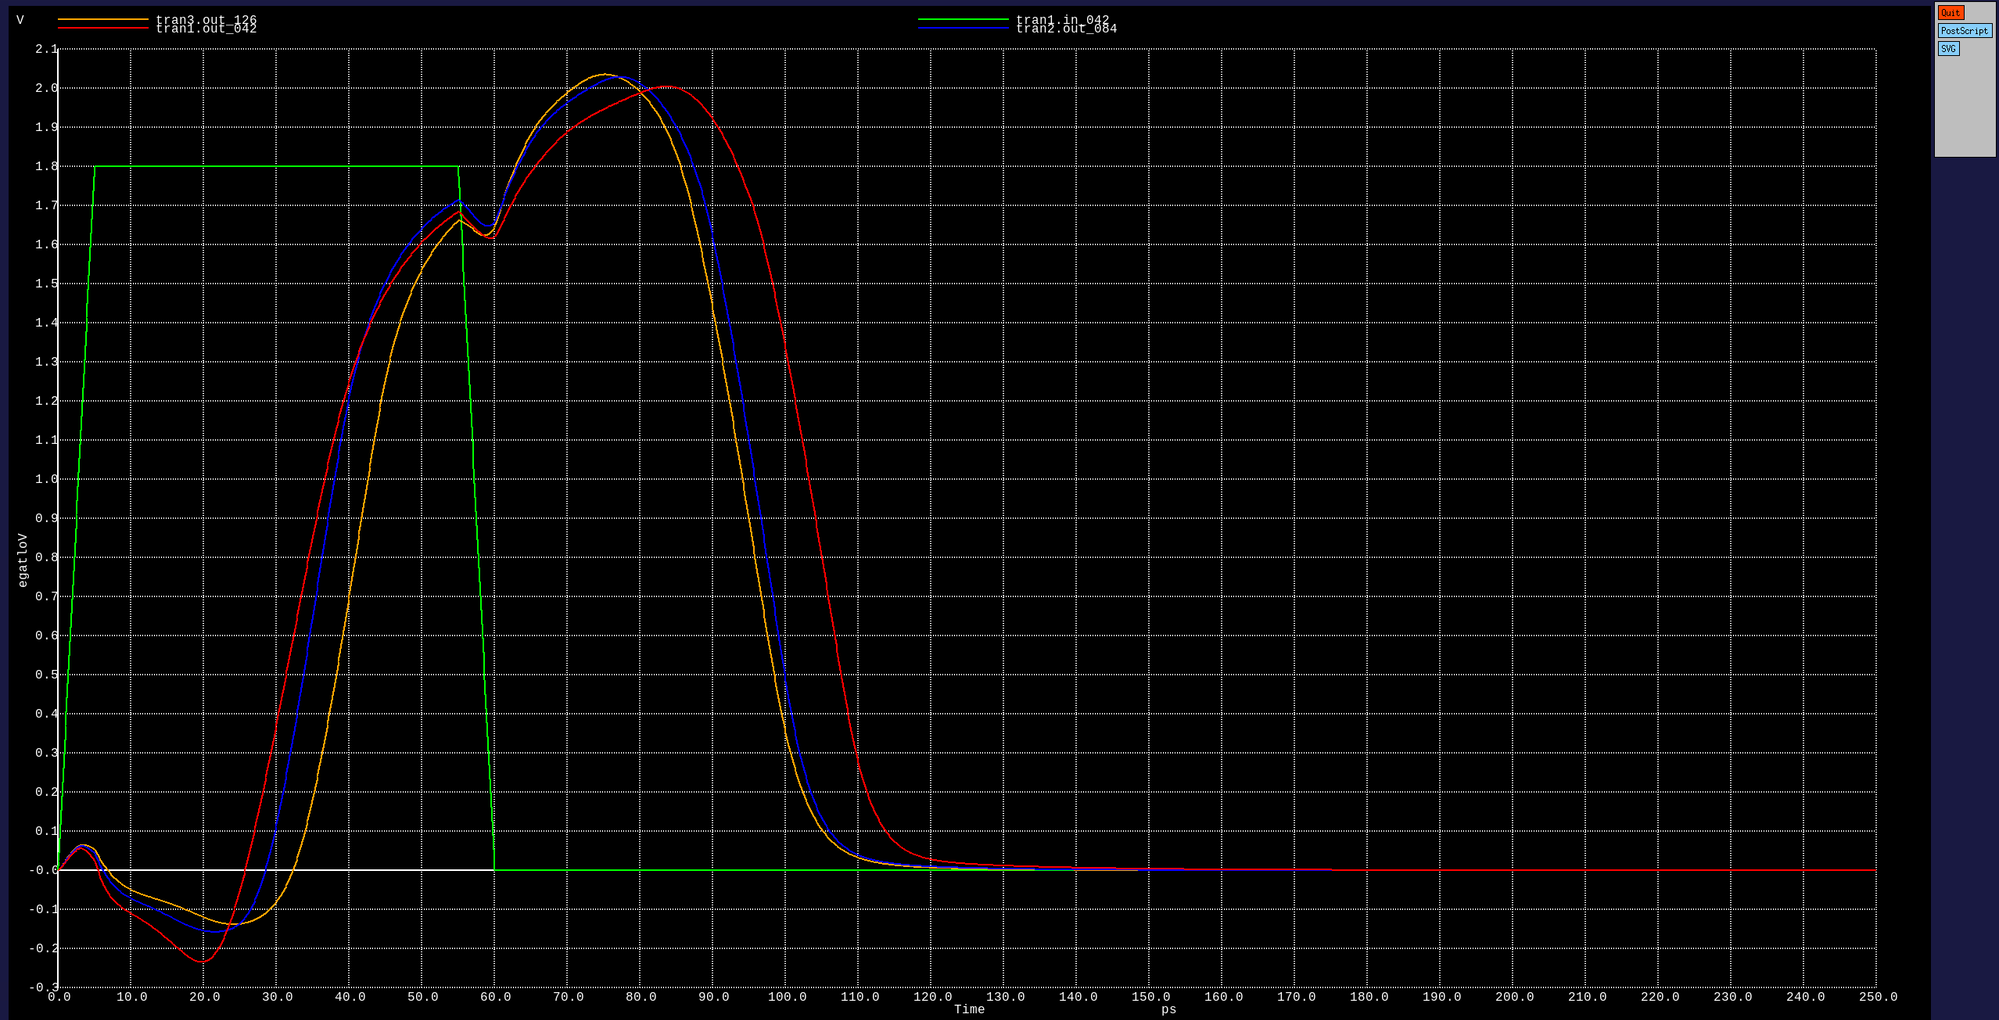
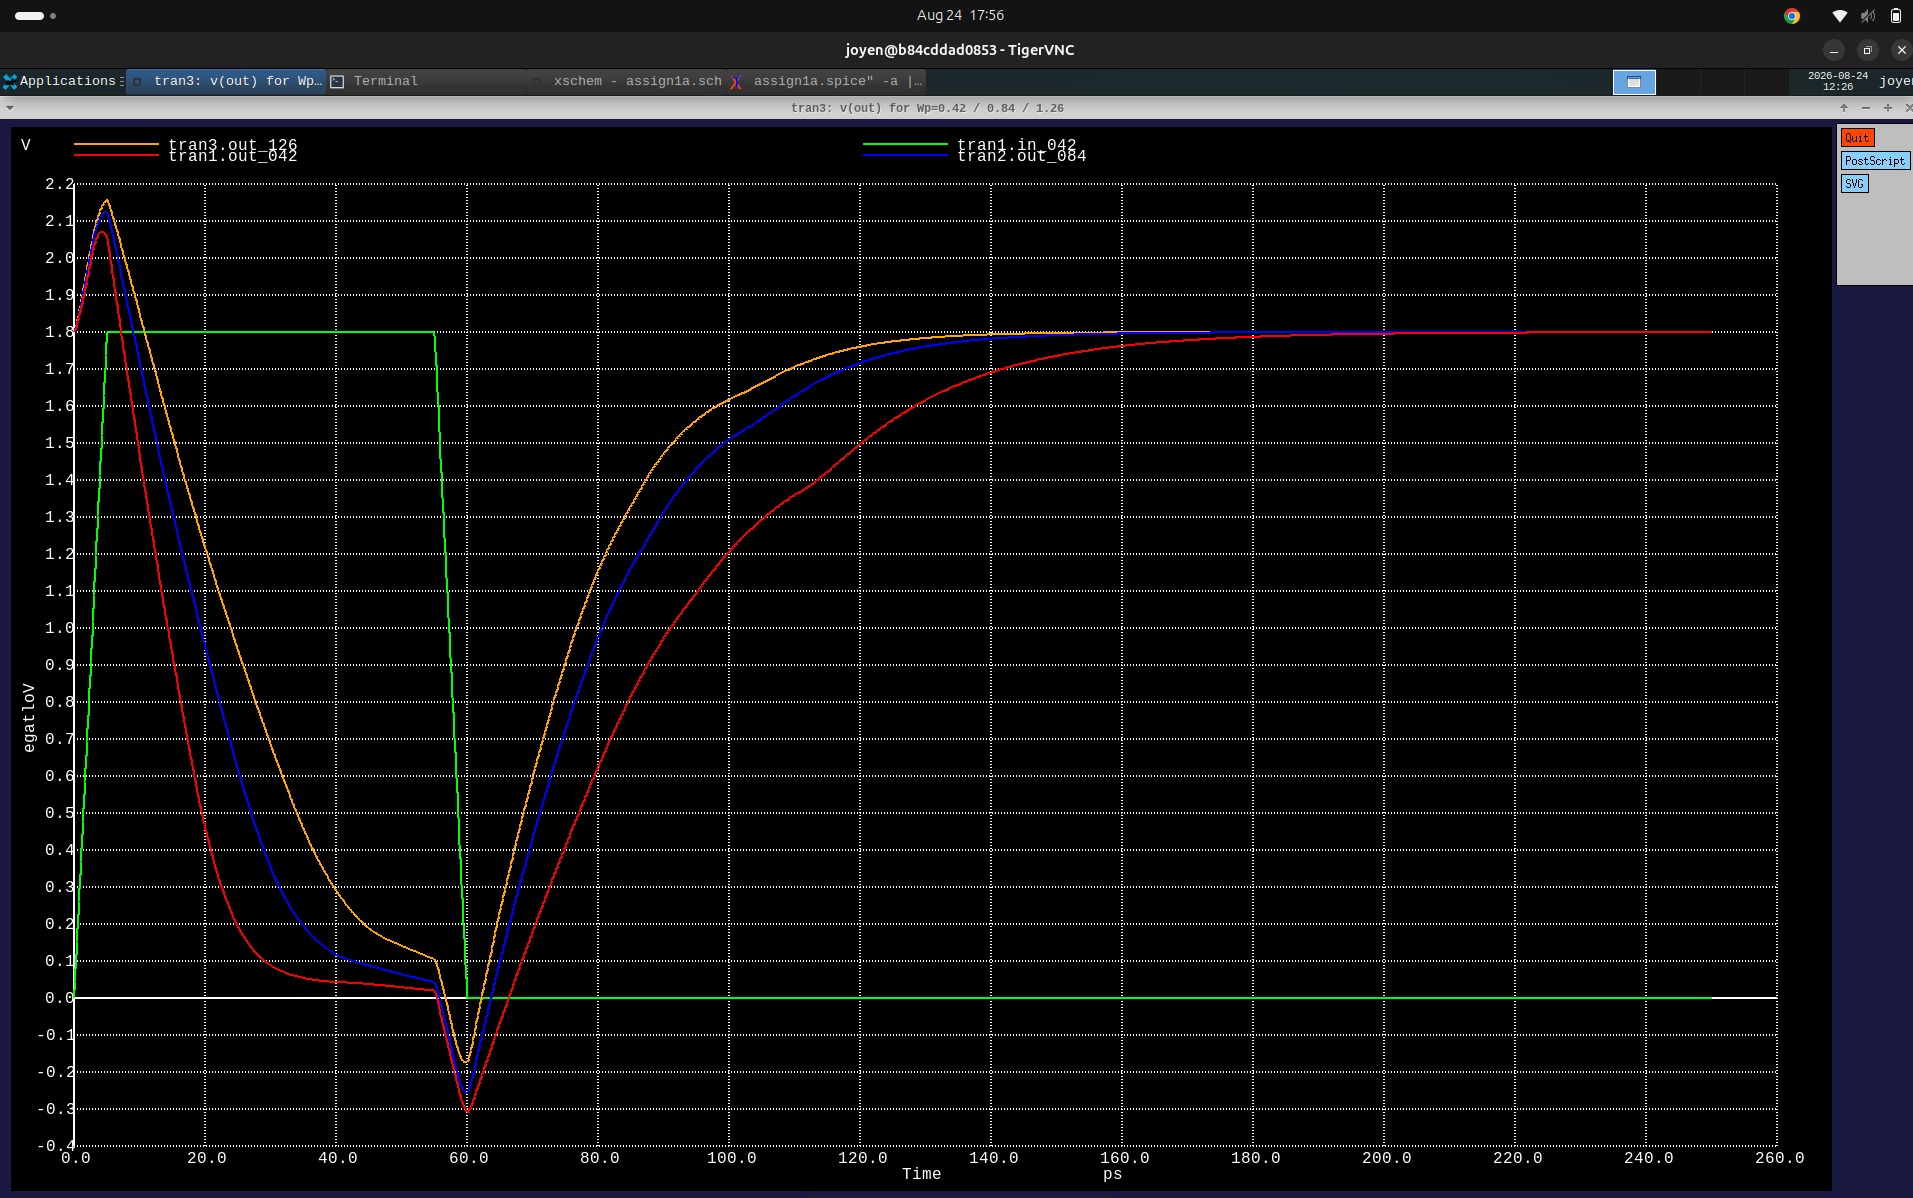
fixed graph and release

Changed region(s): [[0.0, 0.0, 1.0, 1.0]]

diff --git a/assignments/assignment3/index.tex b/assignments/assignment3/index.tex
@@ -114,10 +114,10 @@ ngspice control block in \texttt{assign1a.spice}:
 alterparam width_p = 0.42
 reset
 tran 0.1p 250p
-let out_042 = v(out)
+let out_042 = v(net)
 let in_042  = v(inp)
-meas tran tlh_042 trig v(inp) val=0.9 rise=1 targ v(out) val=0.9 rise=1
-meas tran thl_042 trig v(inp) val=0.9 fall=1 targ v(out) val=0.9 fall=1
+meas tran tlh_042 trig v(inp) val=0.9 rise=1 targ v(net) val=0.9 rise=1
+meas tran thl_042 trig v(inp) val=0.9 fall=1 targ v(net) val=0.9 fall=1
 let delay_042 = (tlh_042 + thl_042) / 2
 echo Wp = 0.42 : delay = $&delay_042
 
